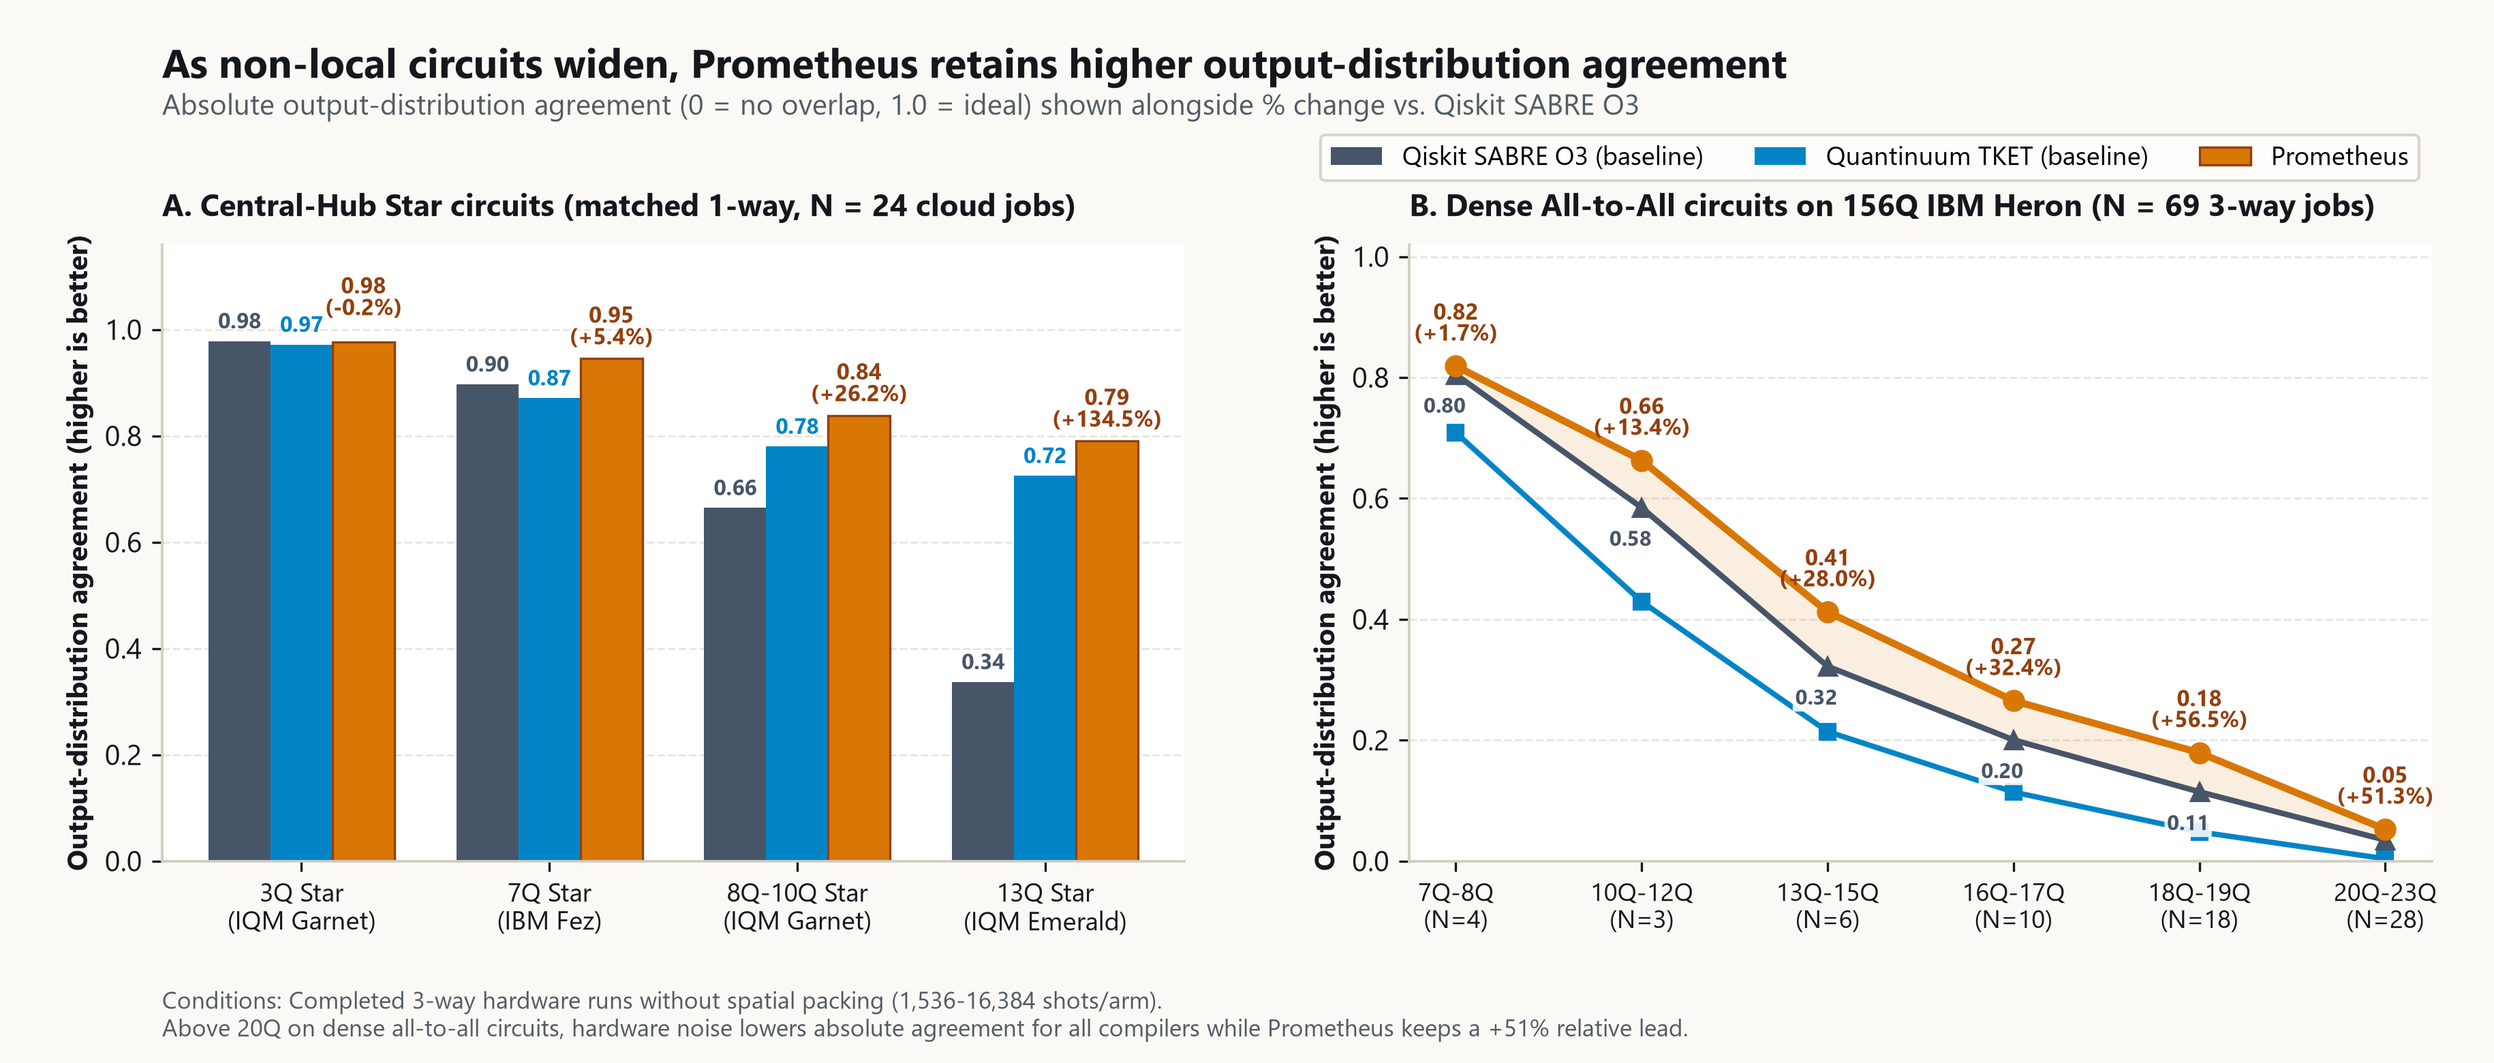
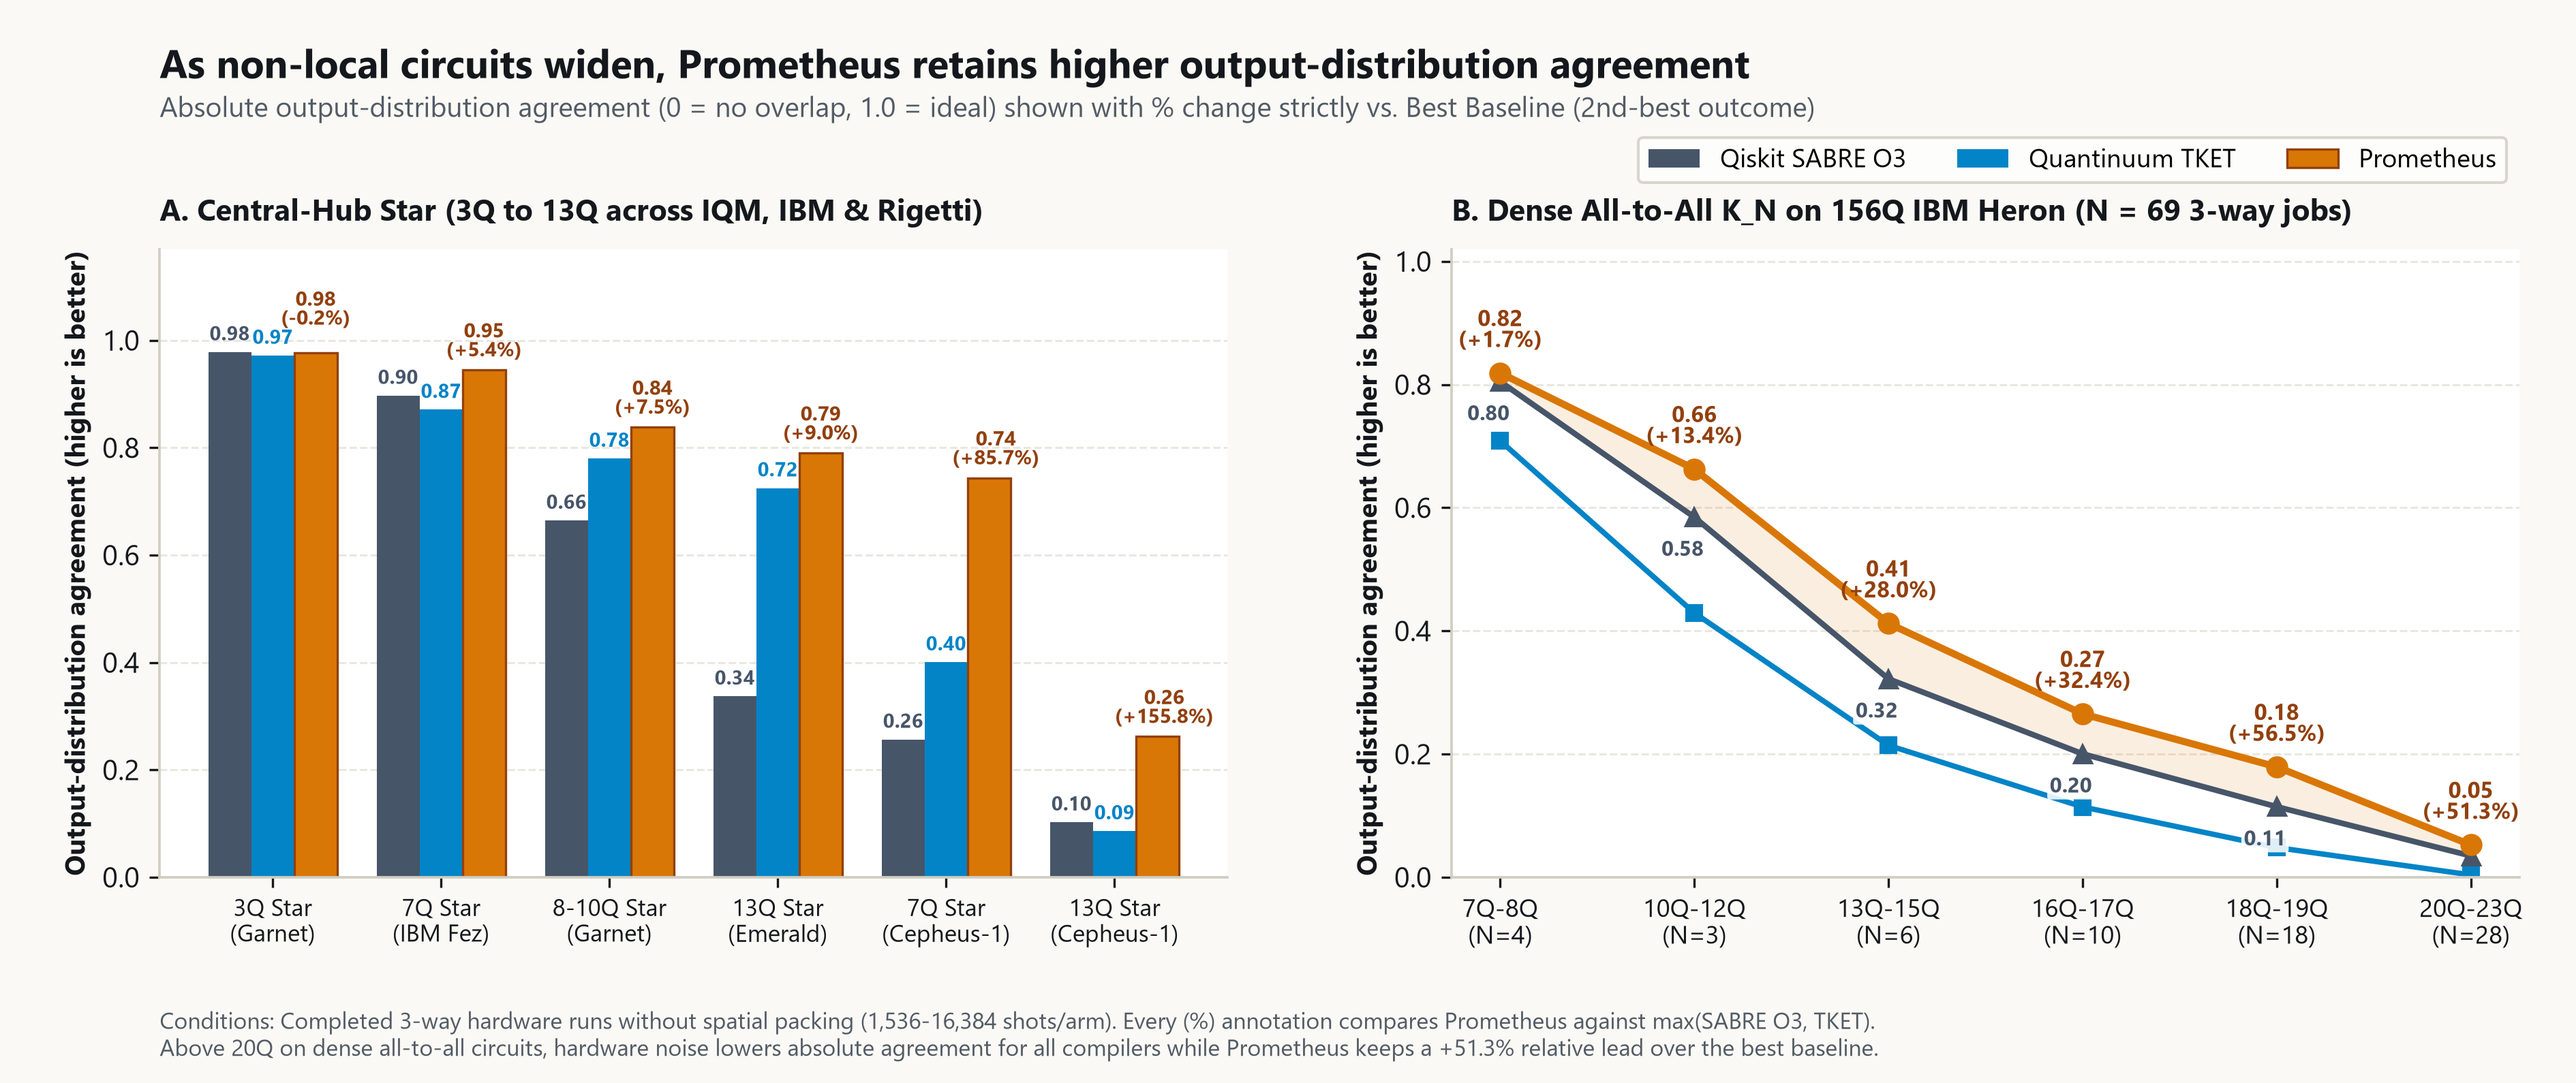
Compare headline gains strictly vs. best baseline and format USD amounts to 2 decimals

diff --git a/README.md b/README.md
@@ -6,7 +6,7 @@
 
 - **The question:** How does compilation quality change as quantum circuits grow wider and connect qubits that are not physical neighbors on the chip?
 - **The test:** We ran `32` live three-compiler benchmark groups (`187` unique cloud records: `186` completed benchmark jobs/tasks + `1` cancelled auxiliary job = `464` PUBs and `1,407,488` physical shots) comparing Qiskit SABRE O3, Quantinuum TKET, and Prometheus across `6` superconducting processors (`IBM Fez`, `IBM Kingston`, `IBM Marrakesh`, `IQM Emerald`, `IQM Garnet`, and `AWS Rigetti Cepheus-1`), alongside `69` completed 3-way `7Q-23Q` dense all-to-all runs on `156Q` IBM Heron.
-- **The finding:** Across **`30` completed three-way comparisons**, Prometheus ranked `#1` in **`25/30` (`83.3%`)** groups (`+9.11%` mean output-distribution agreement vs. SABRE), plus **`2/2` additional groups (`27/32` [`84.4%`] overall)** where a stock baseline targeted a disabled hardware qubit and halted pre-flight at `$0`. On `13`-qubit central-hub star circuits, Prometheus reached `0.7903` vs. `0.3370` SABRE (`+134.5%`, `-42.9%` billed credits) on `IQM Emerald` and `0.2622` vs. `0.1025` SABRE (`+155.8%`) on `Rigetti Cepheus-1`.
+- **The finding:** Across **`30` completed three-way comparisons**, Prometheus ranked `#1` in **`25/30` (`83.3%`)** groups (`+9.11%` mean output-distribution agreement vs. SABRE), plus **`2/2` additional groups (`27/32` [`84.4%`] overall)** where a stock baseline targeted a disabled hardware qubit and halted pre-flight at `$0.00`. Compared strictly against the best baseline (`max(SABRE O3, TKET)` per run), Prometheus reached `0.7903` vs. `0.7248` TKET (`+9.04%` agreement, `-20.0%` billed credits [`$3.00` vs. `$3.75`], `-25.0%` `2Q` gates) on `13Q` `IQM Emerald` Star, `0.7439` vs. `0.4006` TKET (`+85.7%`) on `7Q` `Rigetti Cepheus-1` Star, and `0.2622` vs. `0.1025` SABRE (`+155.8%`) on `13Q` `Rigetti Cepheus-1` Star.
 - **The significance:** Many chemistry, phase-estimation, and optimization subroutines couple one control qubit to many others (star circuits) or couple every qubit pair (all-to-all circuits); cutting extra routing gates preserves usable signal on wider problems.
 - **The boundary:** On small `3Q` star circuits all three compilers tied near `0.98`; baselines won `5/30` completed groups (`4` SABRE, `1` TKET), and above `20Q` on dense all-to-all circuits hardware noise lowers absolute agreement (`0.04-0.06`) across all compilers even though Prometheus retains a `+44%` to `+55%` relative lead.
 - **The evidence:** Simplified absolute-plus-relative chart and compact summary table below, with full scientific figures, all `32` group rows, and raw-histogram verification underneath.
@@ -15,13 +15,13 @@
 - Initial public release of all `187` cloud records (`32` 3-way groups including two simultaneous `5`-QPU cross-cloud dispatches and `4Q H2` / `6Q LiH` chemistry runs).
 
 ![As non-local circuits widen, Prometheus retains higher output-distribution agreement](assets/fig0_simple_scaling_absolute_and_gain.png)
-*Opening summary: Absolute output-distribution agreement (`0` to `1.0`) and `%` change vs. Qiskit SABRE O3 across `3Q-13Q` Central-Hub Star (`N = 24` cloud jobs) and `7Q-23Q` Dense All-to-All circuits (`N = 69` completed 3-way IBM Heron jobs).*
+*Opening summary: Absolute output-distribution agreement (`0` to `1.0`) and `%` change strictly vs. Best Baseline (`max(SABRE O3, TKET)`) across `3Q-13Q` Central-Hub Star and `7Q-23Q` Dense All-to-All circuits (`N = 69` completed 3-way IBM Heron jobs).*
 
 ---
 
 ## Executive Summary (`30` Completed 3-Way Groups + `2` Pre-Flight Baseline Halts = `32` Groups, `1,407,488` Shots)
 
-*Hardware IDs:* `106` IBM (`dc1csqts2omc738aeubg`..`dc1t14inj2vs73dfr1qg`), `67` IQM (`01a1f5e1-db66..`..`01a20701-bb5d..`), and `14` AWS Braket Rigetti tasks (`064ec617..`..`f245e7e9..`). Exact `*(mean)*` across all `30` completed 3-arm groups (kept separate from the `2` groups `G06` & `G24` where a stock baseline targeted a disabled qubit and halted pre-flight at `$0`):
+*Hardware IDs:* `106` IBM (`dc1csqts2omc738aeubg`..`dc1t14inj2vs73dfr1qg`), `67` IQM (`01a1f5e1-db66..`..`01a20701-bb5d..`), and `14` AWS Braket Rigetti tasks (`064ec617..`..`f245e7e9..`). Exact `*(mean)*` across all `30` completed 3-arm groups (kept separate from the `2` groups `G06` & `G24` where a stock baseline targeted a disabled qubit and halted pre-flight at `$0.00`):
 
 | Compiler (`30` Completed 3-Way Groups) | Output-Distribution Agreement $F_B$ `(↑)` | Squared Hellinger $F_H$ `(↑)` | `HOP` `(↑)` | `TVD` `(↓)` | `XEB` `(↑)` | Entropy `(↓)` | `2Q` Gates / Depth `(↓)` | Completed `#1` Wins (`30` Groups) |
 | :--- | :---: | :---: | :---: | :---: | :---: | :---: | :---: | :---: |
@@ -46,7 +46,7 @@
 <details>
 <summary><strong>1. Common-Denominator Slices Across Domain, Width Tier, QPU & Isolation Mode - Click to expand</strong></summary>
 
-*(Note: Group win denominators below reflect all `32` groups; in `G06` [`ibm_kingston` chemistry] stock SABRE halted pre-flight at `$0` while TKET [`0.9609`] and Prometheus [`0.9664`] completed, and in `G24` [`aws_rigetti_cepheus` `7Q` Star] both stock baselines targeted isolated `q[49]` and halted at `$0` while Prometheus [`0.7313`] completed; `*(mean)*` columns average completed arms.)*
+*(Note: Group win denominators below reflect all `32` groups; in `G06` [`ibm_kingston` chemistry] stock SABRE halted pre-flight at `$0.00` while TKET [`0.9609`] and Prometheus [`0.9664`] completed, and in `G24` [`aws_rigetti_cepheus` `7Q` Star] both stock baselines targeted isolated `q[49]` and halted at `$0.00` while Prometheus [`0.7313`] completed; `*(mean)*` columns average completed arms.)*
 
 | Common-Denominator Slice | `#1` Wins `(↑)` | SABRE $F_B$ `*(mean)*` `(↑)` | TKET $F_B$ `*(mean)*` `(↑)` | Prom $F_B$ `*(mean)*` `(↑)` | Mean `2Q` Gates (`S / T / P`) `(↓)` | `% F_B Delta vs. SABRE / TKET` `(↑)` |
 | :--- | :---: | :---: | :---: | :---: | :---: | :---: |
@@ -70,21 +70,21 @@
 </details>
 
 <details>
-<summary><strong>2. Full Scientific Figures (3-Panel Log-Multiplier Atlas & Simultaneous 5-QPU Matrix) + Dense K_N Table - Click to expand</strong></summary>
+<summary><strong>2. Full Scientific Figures (3-Panel Best-Baseline Atlas & Simultaneous 5-QPU Matrix) + Dense K_N Table - Click to expand</strong></summary>
 
 ![Detailed 3-Panel Non-Local Scaling Atlas](assets/fig1_nonlocal_scaling_star_and_dense_kn.png)
 
 ![Simultaneous 5-QPU Cross-Cloud Benchmark Matrix](assets/fig2_simultaneous_5qpu_cross_cloud_matrix.png)
 
-| Width Bin (`N = 69` Completed 3-Way `IBM Heron` `K_N` Jobs) | SABRE $F_B$ `*(mean)*` `(↑)` | TKET $F_B$ `*(mean)*` `(↑)` | Prom $F_B$ `*(mean)*` `(↑)` | Ratio (`P/S` · `P/T`) `(↑)` | Linear `XEB` `*(mean)*` (`S / T / P`) `(↑)` | `2Q` `CZ` Gates `*(mean)*` (`S / T / P`) `(↓)` |
+| Width Bin (`N = 69` Completed 3-Way `IBM Heron` `K_N` Jobs) | SABRE $F_B$ `*(mean)*` `(↑)` | TKET $F_B$ `*(mean)*` `(↑)` | Prom $F_B$ `*(mean)*` `(↑)` | `% vs. Best Baseline` `(↑)` | Linear `XEB` `*(mean)*` (`S / T / P`) `(↑)` | `2Q` `CZ` Gates `*(mean)*` (`S / T / P`) `(↓)` |
 | :--- | :---: | :---: | :---: | :---: | :---: | :---: |
-| **`7Q-8Q`** (`N = 4`) | `0.8049` | `0.7087` | **`0.8188`** | **`1.02x` · `1.16x`** | `12.4` / `9.8` / **`13.4`** | `66.0` / `87.8` / **`54.5`** |
-| **`10Q-12Q`** (`N = 3`) | `0.5847` | `0.4292` | **`0.6628`** | **`1.13x` · `1.54x`** | `16.0` / `9.2` / **`21.3`** | `153.0` / `221.3` / **`118.7`** |
-| **`13Q-15Q`** (`N = 6`) | `0.3221` | `0.2142` | **`0.4122`** | **`1.28x` · `1.92x`** | `53.3` / `29.3` / **`83.4`** | `222.8` / `371.3` / **`184.0`** |
-| **`16Q-17Q`** (`N = 10`) | `0.2004` | `0.1142` | **`0.2653`** | **`1.32x` · `2.32x`** | `128.1` / `37.3` / **`159.4`** | `333.0` / `496.0` / **`276.6`** |
-| **`18Q-19Q`** (`N = 18`) | `0.1145` | `0.0482` | **`0.1792`** | **`1.57x` · `3.72x`** | `245.8` / `81.8` / **`406.8`** | `419.9` / `665.7` / **`360.6`** |
-| **`20Q-21Q`** (`N = 17`) | `0.0396` | `0.0055` | **`0.0612`** | **`1.55x` · `11.13x`** | `224.3` / `20.1` / **`244.3`** | `520.6` / `848.8` / **`442.5`** |
-| **`22Q-23Q`** (`N = 11`) | `0.0271` | `0.0013` | **`0.0390`** | **`1.44x` · `30.31x`** | `531.5` / `30.7` / **`738.4`** | `592.5` / `1042.6` / **`529.6`** |
+| **`7Q-8Q`** (`N = 4`) | `0.8049` | `0.7087` | **`0.8188`** | **`+1.73%`** (`1.02x` vs. S) | `12.4` / `9.8` / **`13.4`** | `66.0` / `87.8` / **`54.5`** |
+| **`10Q-12Q`** (`N = 3`) | `0.5847` | `0.4292` | **`0.6628`** | **`+13.36%`** (`1.13x` vs. S) | `16.0` / `9.2` / **`21.3`** | `153.0` / `221.3` / **`118.7`** |
+| **`13Q-15Q`** (`N = 6`) | `0.3221` | `0.2142` | **`0.4122`** | **`+27.97%`** (`1.28x` vs. S) | `53.3` / `29.3` / **`83.4`** | `222.8` / `371.3` / **`184.0`** |
+| **`16Q-17Q`** (`N = 10`) | `0.2004` | `0.1142` | **`0.2653`** | **`+32.39%`** (`1.32x` vs. S) | `128.1` / `37.3` / **`159.4`** | `333.0` / `496.0` / **`276.6`** |
+| **`18Q-19Q`** (`N = 18`) | `0.1145` | `0.0482` | **`0.1792`** | **`+56.51%`** (`1.57x` vs. S) | `245.8` / `81.8` / **`406.8`** | `419.9` / `665.7` / **`360.6`** |
+| **`20Q-21Q`** (`N = 17`) | `0.0396` | `0.0055` | **`0.0612`** | **`+54.55%`** (`1.55x` vs. S) | `224.3` / `20.1` / **`244.3`** | `520.6` / `848.8` / **`442.5`** |
+| **`22Q-23Q`** (`N = 11`) | `0.0271` | `0.0013` | **`0.0390`** | **`+43.91%`** (`1.44x` vs. S) | `531.5` / `30.7` / **`738.4`** | `592.5` / `1042.6` / **`529.6`** |
 
 *(Algorithmic context: Star-hub `K_{1,N-1}` graphs appear in Hadamard-test / `QC-AFQMC` trial overlaps, Quantum Phase Estimation `QPE`, non-local Jordan-Wigner Pauli exponentials, and `QEC` syndrome fanout; dense `K_N` graphs appear in fermionic orbital rotations and `QFT`. Full chronological `G01`-`G32` ledger and `4Q H2` / `6Q LiH` chemistry reconstructions are in [`DETAILED_TECHNICAL_REPORT.md`](DETAILED_TECHNICAL_REPORT.md).)*
 

diff --git a/DETAILED_TECHNICAL_REPORT.md b/DETAILED_TECHNICAL_REPORT.md
@@ -13,7 +13,7 @@ Every completed 3-compiler benchmark executed through the Prometheus Execution C
 | `G03` | `ibm_fez` | Heterogeneous Dense + Star + QFT + QAOA (`15Q`, `1w`) | **`0.4554`** | `0.4089` | `0.3290` | `166.25` / `298.0` / `185.0` | `7.0 seconds` | `-27.76%` |
 | `G04` | `ibm_kingston` | Heterogeneous Dense + Star + QFT + QAOA (`17Q`, `1w`) | **`0.6765`** | `0.6129` | `0.6732` | `196.5` / `346.75` / `177.75` | `11.0 seconds` | `-0.49%` |
 | `G05` | `ibm_kingston` | Heterogeneous Dense + Star + QFT + QAOA (`17Q`, `2w`) | `0.6284` | `0.5859` | **`0.6748`** | `178.25` / `357.0` / `161.0` | `9.0 seconds` | `+7.38%` |
-| `G06` | `ibm_kingston` | Molecular QWC & Conserved-Particle (`6Q`, `4w`) | `Halted ($0)` | `0.9609` | **`0.9664`** | `Halted` / `3.0` / `3.0` | `6.0 seconds` | `+0.57%` |
+| `G06` | `ibm_kingston` | Molecular QWC & Conserved-Particle (`6Q`, `4w`) | `Halted ($0.00)` | `0.9609` | **`0.9664`** | `Halted` / `3.0` / `3.0` | `6.0 seconds` | `+0.57%` |
 | `G07` | `iqm_emerald` | Dense All-to-All (K_N) (`7Q`, `1w`) | `0.8923` | `0.8526` | **`0.9236`** | `37.0` / `55.0` / `28.0` | `2.25 credits` | `+3.51%` |
 | `G08` | `iqm_emerald` | Independent-Set / MIS (`6Q`, `2w`) | `0.9127` | **`0.9393`** | `0.9189` | `5.0` / `5.0` / `6.5` | `2.25 credits` | `-2.17%` |
 | `G09` | `iqm_emerald` | Molecular QWC & Conserved-Particle (`6Q`, `4w`) | `0.9680` | `0.9690` | **`0.9743`** | `3.0` / `3.0` / `3.0` | `2.25 credits` | `+0.55%` |
@@ -26,17 +26,17 @@ Every completed 3-compiler benchmark executed through the Prometheus Execution C
 | `G16` | `ibm_kingston` | Molecular QWC & Conserved-Particle (`4Q`, `5w`) | `0.9911` | `0.9918` | **`0.9918`** | `3.0` / `3.0` / `3.0` | `8.0 seconds` | `+0.00%` |
 | `G17` | `ibm_kingston` | Molecular QWC & Conserved-Particle (`6Q`, `1w`) | `0.9574` | `0.9647` | **`0.9749`** | `17.0` / `27.0` / `17.0` | `32.0 seconds` | `+1.06%` |
 | `G18` | `iqm_emerald` | Central-Hub Star (K_{1,N-1}) (`13Q`, `1w`) | `0.3370` | `0.7248` | **`0.7903`** | `25.0` / `24.0` / `18.0` | `3.0 credits` | `+9.04%` |
-| `G19` | `aws_rigetti_cepheus` | Central-Hub Star (K_{1,N-1}) (`13Q`, `1w`) | `0.1025` | `0.0860` | **`0.2622`** | `24.0` / `36.0` / `17.0` | `7.9728 usd` | `+155.80%` |
+| `G19` | `aws_rigetti_cepheus` | Central-Hub Star (K_{1,N-1}) (`13Q`, `1w`) | `0.1025` | `0.0860` | **`0.2622`** | `24.0` / `36.0` / `17.0` | `$7.97 USD` | `+155.80%` |
 | `G20` | `ibm_fez` | Central-Hub Star (K_{1,N-1}) (`7Q`, `1w`) | `0.8486` | `0.8726` | **`0.9423`** | `13.0` / `11.0` / `8.0` | `6.0 seconds` | `+7.99%` |
 | `G21` | `ibm_marrakesh` | Central-Hub Star (K_{1,N-1}) (`7Q`, `1w`) | `0.8626` | `0.7476` | **`0.8906`** | `11.0` / `11.0` / `14.0` | `6.0 seconds` | `+3.25%` |
 | `G22` | `ibm_kingston` | Central-Hub Star (K_{1,N-1}) (`7Q`, `1w`) | `0.8982` | `0.9255` | **`0.9315`** | `13.0` / `10.0` / `8.0` | `6.0 seconds` | `+0.65%` |
 | `G23` | `iqm_garnet` | Central-Hub Star (K_{1,N-1}) (`7Q`, `1w`) | `0.8309` | `0.8335` | **`0.9088`** | `7.0` / `12.0` / `7.0` | `1.0 credits` | `+9.03%` |
-| `G24` | `aws_rigetti_cepheus` | Central-Hub Star (K_{1,N-1}) (`7Q`, `1w`) | `Halted ($0)` | `Halted ($0)` | **`0.7313`** | `Halted` / `Halted` / `12.0` | `1.9056 usd` | **Only Pass** |
+| `G24` | `aws_rigetti_cepheus` | Central-Hub Star (K_{1,N-1}) (`7Q`, `1w`) | `Halted ($0.00)` | `Halted ($0.00)` | **`0.7313`** | `Halted` / `Halted` / `12.0` | `$1.91 USD` | **Only Pass** |
 | `G25` | `ibm_fez` | Central-Hub Star (K_{1,N-1}) (`7Q`, `1w`) | `0.8970` | `0.8709` | **`0.9451`** | `13.0` / `11.0` / `8.0` | `6.0 seconds` | `+5.36%` |
 | `G26` | `ibm_kingston` | Central-Hub Star (K_{1,N-1}) (`7Q`, `1w`) | `0.9149` | `0.9145` | **`0.9360`** | `13.0` / `10.0` / `8.0` | `6.0 seconds` | `+2.31%` |
 | `G27` | `ibm_marrakesh` | Central-Hub Star (K_{1,N-1}) (`7Q`, `1w`) | **`0.9127`** | `0.5323` | `0.8469` | `11.0` / `11.0` / `14.0` | `6.0 seconds` | `-7.21%` |
 | `G28` | `iqm_garnet` | Central-Hub Star (K_{1,N-1}) (`7Q`, `1w`) | `0.8219` | `0.8357` | **`0.9068`** | `7.0` / `12.0` / `7.0` | `1.0 credits` | `+8.51%` |
-| `G29` | `aws_rigetti_cepheus` | Central-Hub Star (K_{1,N-1}) (`7Q`, `1w`) | `0.2565` | `0.4006` | **`0.7439`** | `12.0` / `12.0` / `12.0` | `1.9056 usd` | `+85.70%` |
+| `G29` | `aws_rigetti_cepheus` | Central-Hub Star (K_{1,N-1}) (`7Q`, `1w`) | `0.2565` | `0.4006` | **`0.7439`** | `12.0` / `12.0` / `12.0` | `$1.91 USD` | `+85.70%` |
 | `G30` | `iqm_garnet` | Central-Hub Star (K_{1,N-1}) (`3Q`, `1w`) | **`0.9782`** | `0.9717` | `0.9762` | `2.0` / `2.0` / `2.0` | `1.0 credits` | `-0.20%` |
 | `G31` | `iqm_garnet` | Central-Hub Star (K_{1,N-1}) (`7Q`, `1w`) | `0.8768` | `0.8938` | **`0.9208`** | `6.33` / `7.33` / `6.0` | `2.0 credits` | `+3.02%` |
 | `G32` | `iqm_garnet` | Central-Hub Star (K_{1,N-1}) (`10Q`, `1w`) | `0.6644` | `0.7799` | **`0.8383`** | `12.67` / `15.67` / `10.0` | `2.0 credits` | `+7.49%` |
